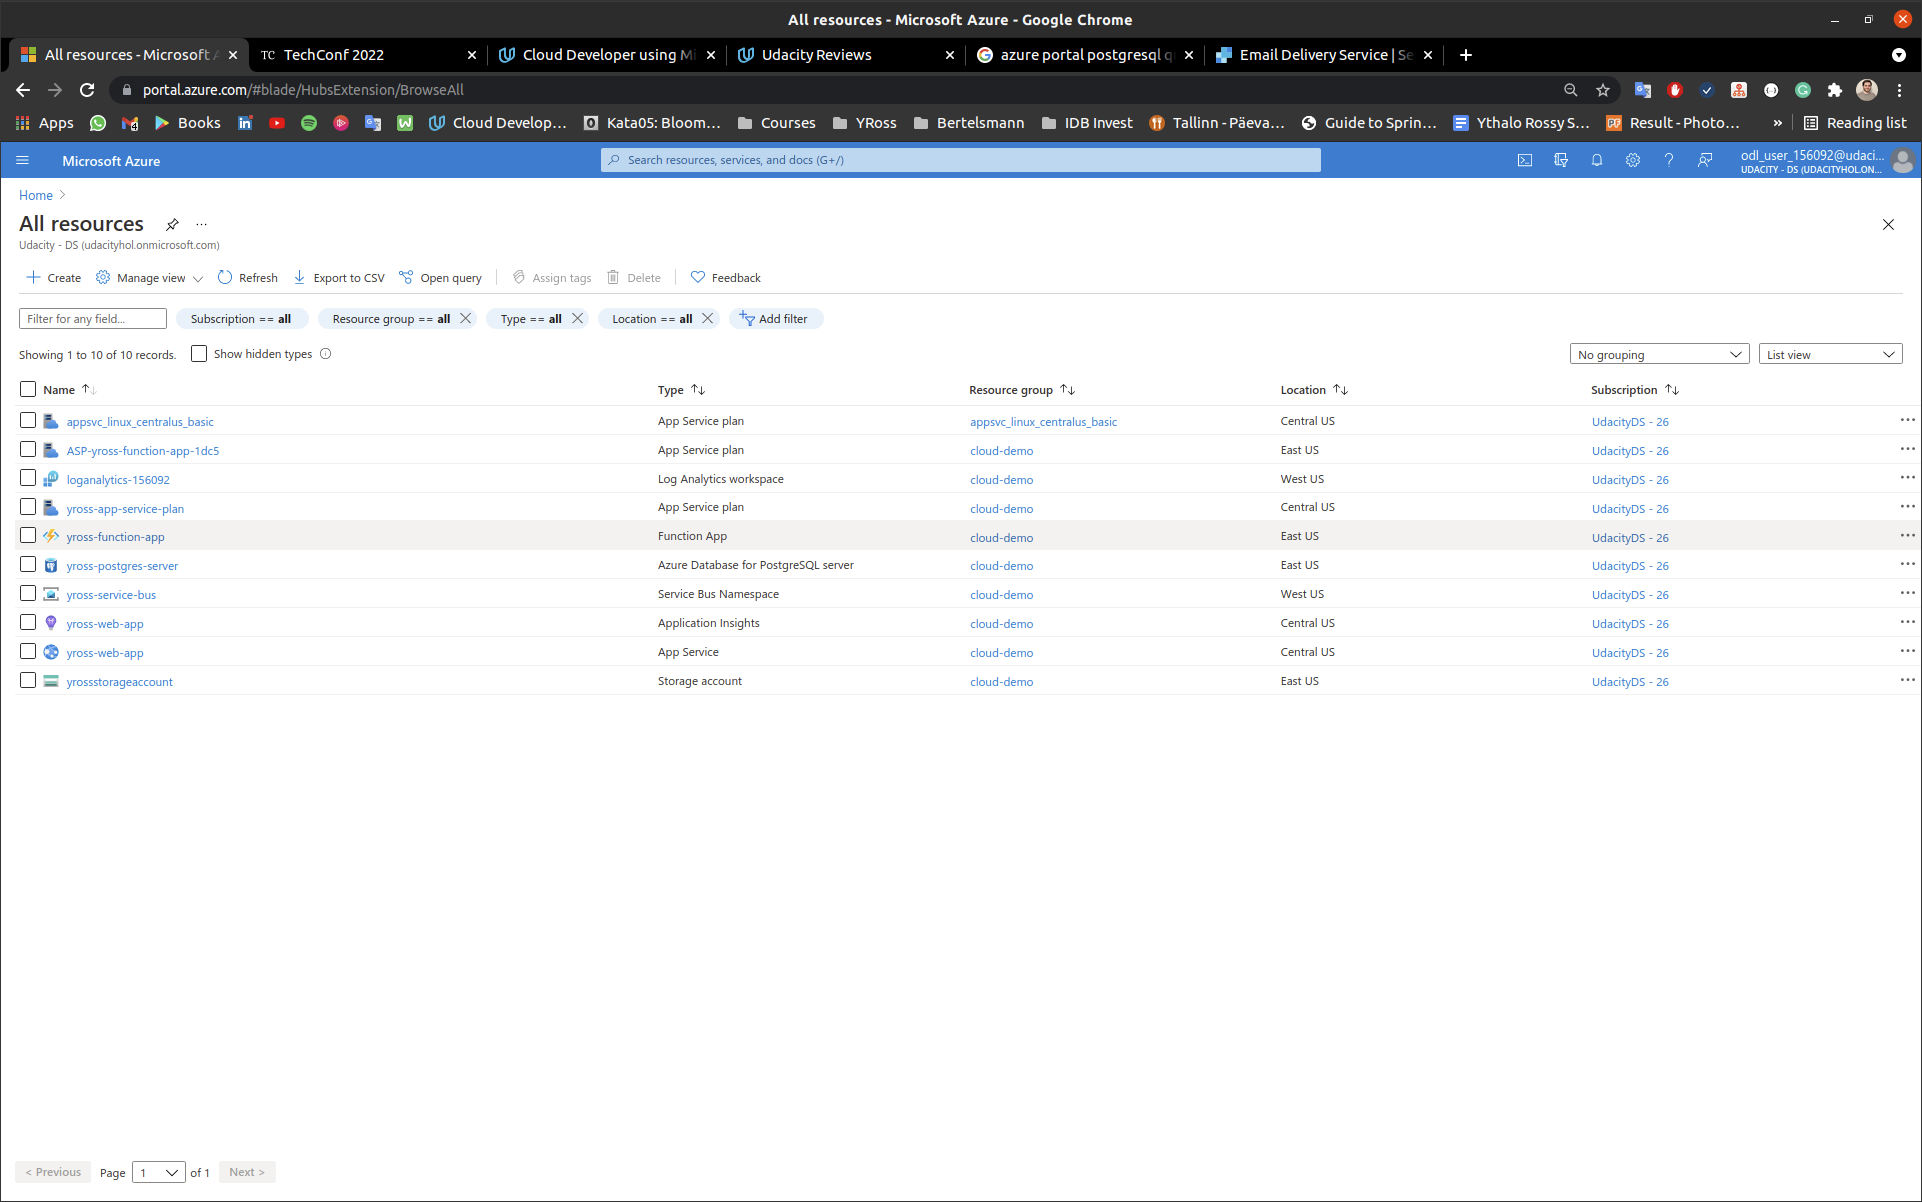
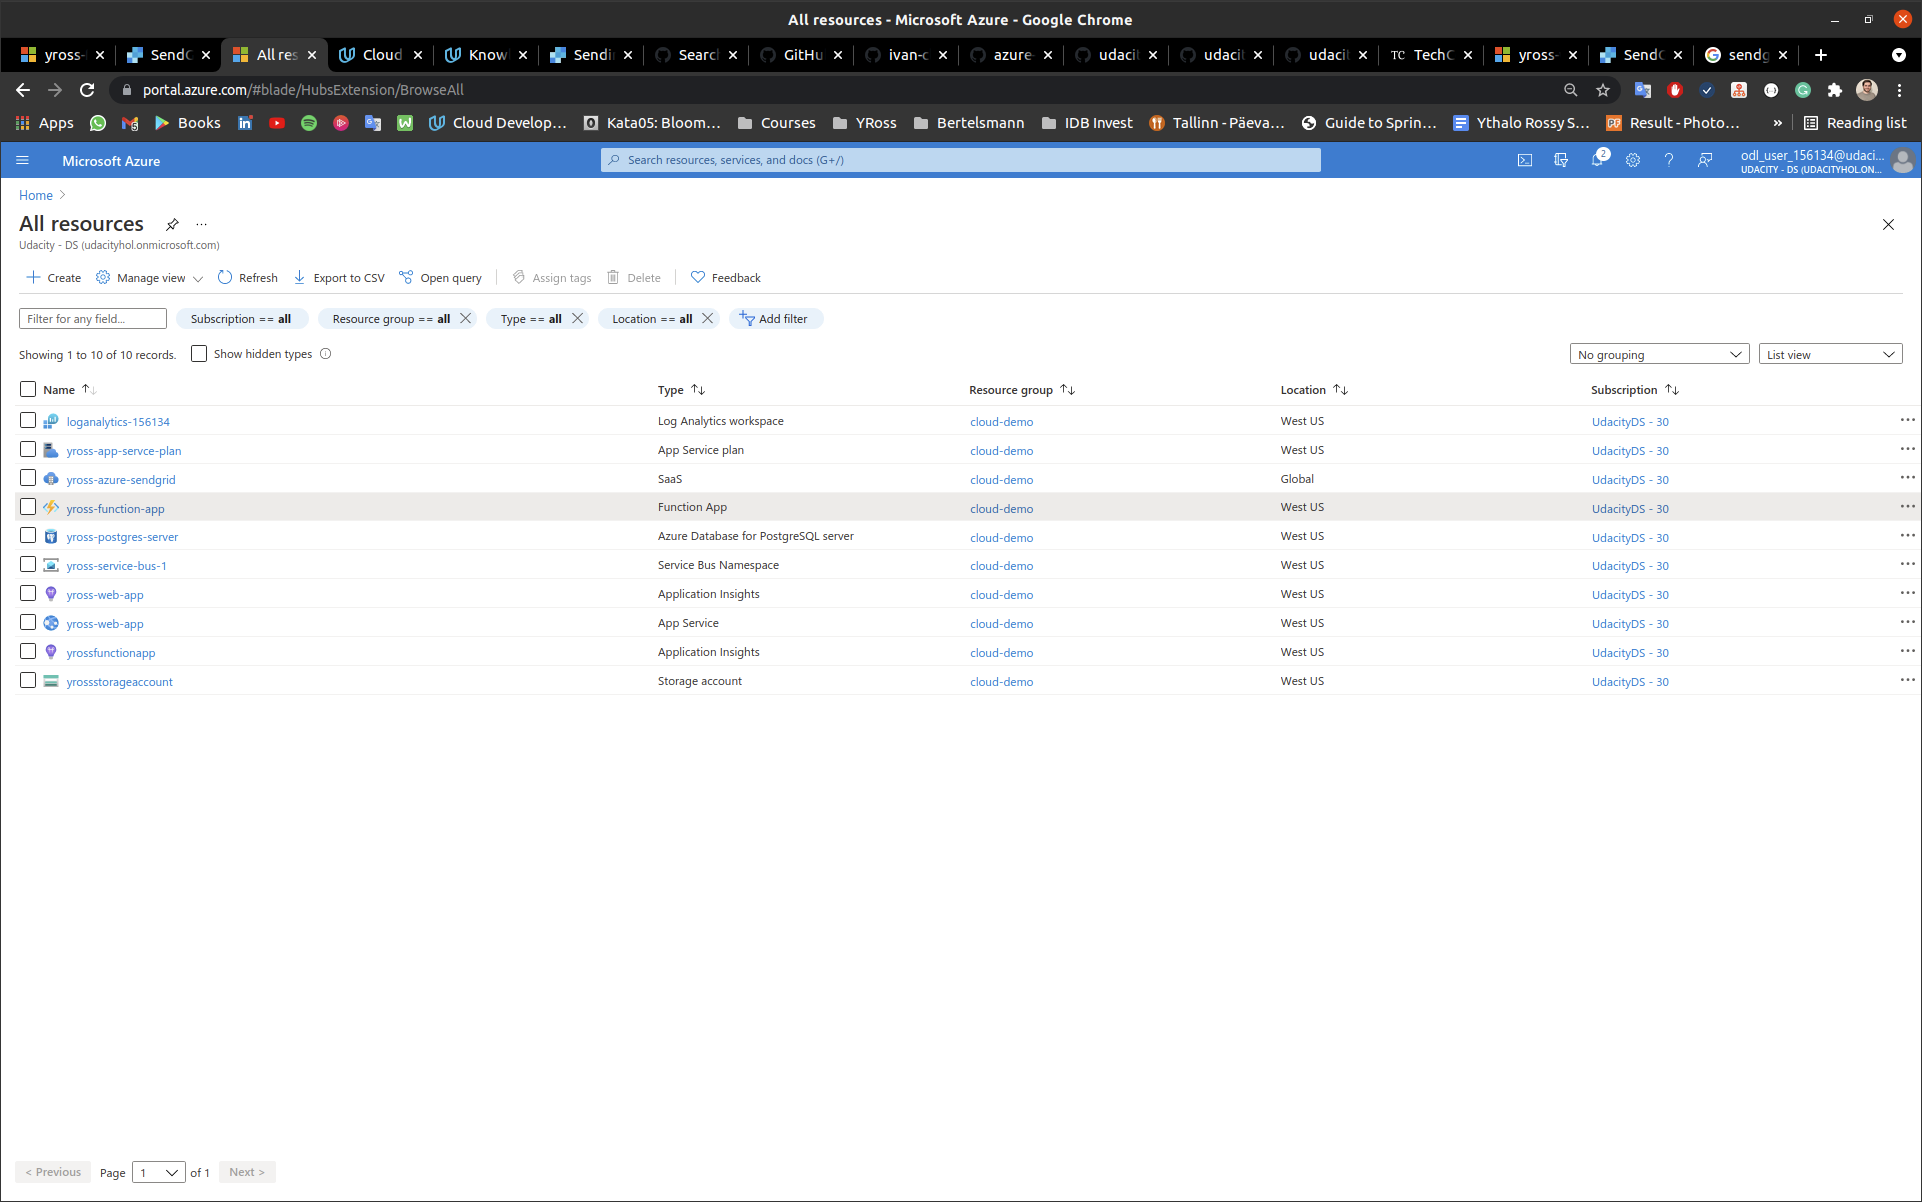
Recreated Function App and updated screenshots

diff --git a/project-03/solution/web/config.py b/project-03/solution/web/config.py
@@ -13,10 +13,10 @@ class BaseConfig:
     SQLALCHEMY_DATABASE_URI = os.getenv('SQLALCHEMY_DATABASE_URI') or DB_URL
     CONFERENCE_ID = 1
     SECRET_KEY = 'LWd2tzlprdGHCIPHTd4tp5SBFgDszm'
-    SERVICE_BUS_CONNECTION_STRING = 'Endpoint=sb://yross-service-bus.servicebus.windows.net/;SharedAccessKeyName=RootManageSharedAccessKey;SharedAccessKey=ACxxuTYR06ePv2p6UCVIdyK6hVjUJVlkPFs1l73z6qw='
+    SERVICE_BUS_CONNECTION_STRING = 'Endpoint=sb://yross-service-bus-1.servicebus.windows.net/;SharedAccessKeyName=RootManageSharedAccessKey;SharedAccessKey=oGRzfDxnT2Hm7vWaDSfbEKFCM/TVLkyQ2pNFaFeN+cY='
     SERVICE_BUS_QUEUE_NAME = 'notificationqueue'
     ADMIN_EMAIL_ADDRESS = 'ythalorossy@gmail.com'
-    SENDGRID_API_KEY = '' #Configuration not required, required SendGrid Account
+    SENDGRID_API_KEY = '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' #Configuration not required, required SendGrid Account
 
 class DevelopmentConfig(BaseConfig):
     DEBUG = True

diff --git a/project-03/solution/README.md b/project-03/solution/README.md
@@ -89,11 +89,13 @@ The migration to an Azure App Service and Azure Postgres database instance impro
 
 ### Migrate Web Applications
 
-Screenshot of Azure Resource showing the App Service Plan:
-
-*The App Service Plan created and listed below*
+Screenshot of Azure Resource:
 
 ![App Service Plan](screenshots/azure_all_resources.png)
+
+Screenshot of Azure Resource showing the App Service Plan:
+
+![App Service Plan](screenshots/azure_app_service_plan.png)
 
 Screenshot of the deployed Web App running:
 

diff --git a/project-03/solution/screenshots/README.md b/project-03/solution/screenshots/README.md
@@ -26,7 +26,6 @@ The following screenshots should be taken and uploaded to this **screenshots** f
  - Screenshot of the Azure Function App running in Azure, showing the **function name** and the **function app plan**.
   ![Web App: Function App](azure_function_app_overview.png)
   ![Web App: Function App](azure_function_app_configutation.png)
-  ![Web App: Function App](azure_function_app_execution.png)
   ![Web App: Function App](azure_function_app_integration.png)
 
 
